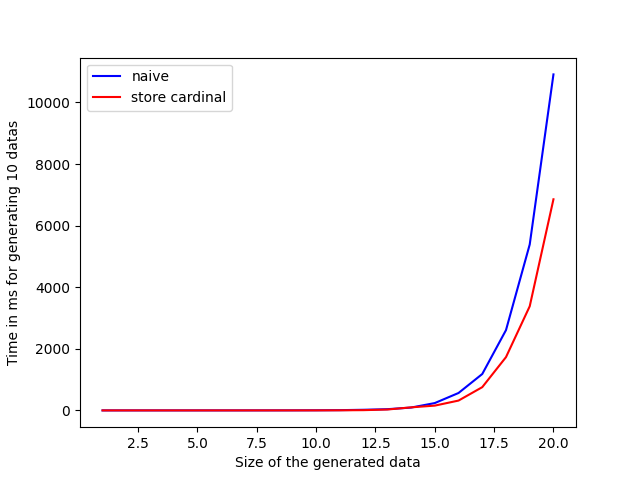
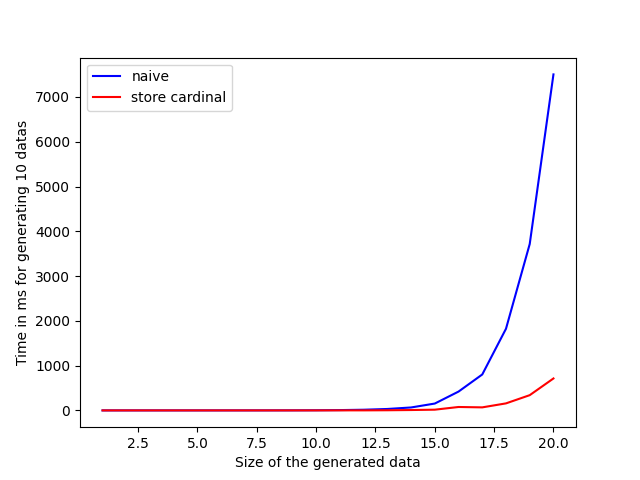
partial application to memoize 'sized s k'

diff --git a/benchmark/Benchmark.md b/benchmark/Benchmark.md
@@ -14,13 +14,13 @@ the occurences of the different numbers.
 </div>
 
 
-## The generator is exponential w.r.t the size of the data
+## Time complexity w.r.t size
 
-In order to measure the performance of the genrator in time,
-we measure the time taken to generate 10 list of natural number
-with a size in number of constructor ranging over $[1..20]$ with
-the naive approach and a small optimisation consisting of storing
-the cardinal of the sets rather than recomputing it.
+In order to measure the performance of the genrator in time, we
+measure the time taken to generate 10 list of natural number with a
+size in number of constructor ranging over $[1..20]$ with the naive
+approach and an optimisation consisting of storing the cardinal of the
+sets rather than recomputing it.
 
 <div align="center">
 	<img src="time_nat_list.png" title="Time of generation depending on size" />
